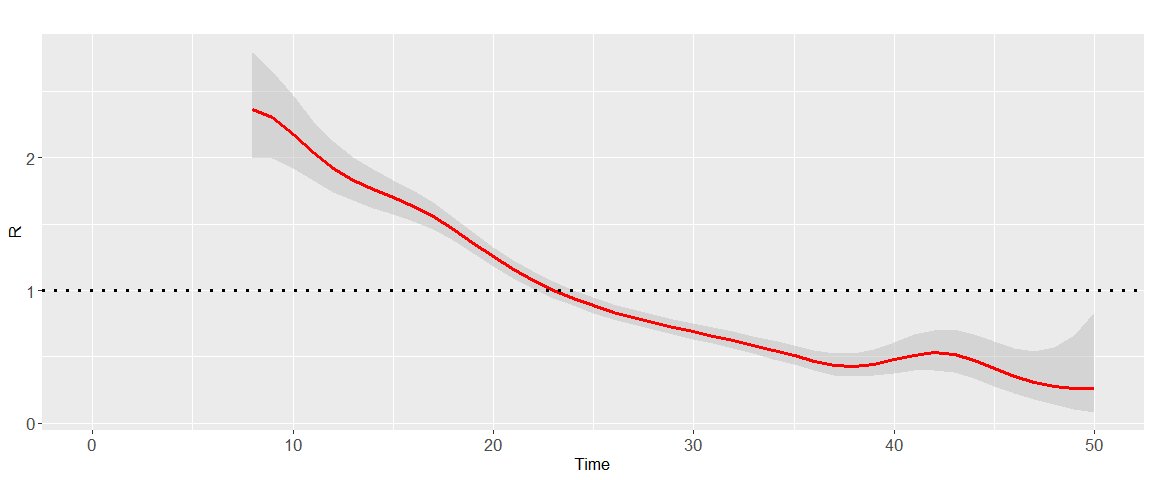
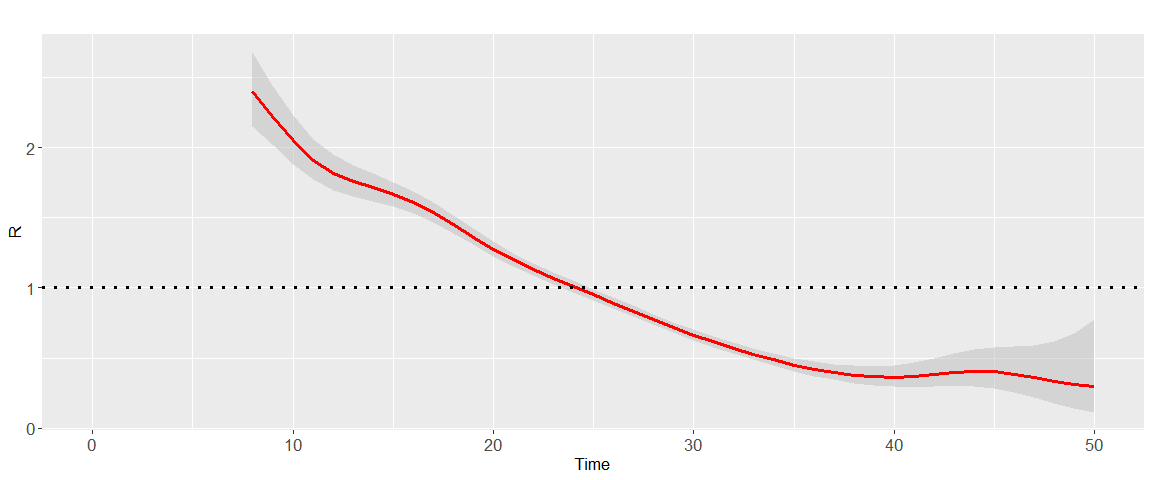
Version 1.0.6

diff --git a/README.md b/README.md
@@ -5,7 +5,7 @@ Oswaldo Gressani
 
 <!-- Introduce badges -->
 
-![Version](https://img.shields.io/badge/Version-1.0.5-lightgrey)
+![Version](https://img.shields.io/badge/Version-1.0.6-lightgrey)
 ![Languages](https://img.shields.io/badge/Languages-R%2C%20C%2B%2B-informational)
 ![Lifecycle](https://img.shields.io/badge/lifecycle-postexperimental-yellow)
 ![CodeSize](https://img.shields.io/github/languages/code-size/oswaldogressani/EpiLPS?color=orange&label=Code%20size&style=plastic)
@@ -19,59 +19,62 @@ Oswaldo Gressani
 EpiLPS <span style="color: blue;"> (Gressani et al. 2021)</span>, is the
 acronym for **Epi**demiological modeling (tool) with
 **L**aplacian-**P**-**S**plines. It proposes a new Bayesian methodology
-for estimating the instantaneous reproduction number *R*<sub>*t*</sub>,
+for estimating the instantaneous reproduction number
+![R_t](https://latex.codecogs.com/png.image?%5Cdpi%7B110%7D&space;%5Cbg_white&space;R_t "R_t"),
 i.e. the average number of secondary cases generated by an infectious
-agent at time *t* <span style="color: blue;"> (White et al., 2020)
-</span>; a key metric for assessing the transmission dynamics of an
-infectious disease and a useful reference for guiding interventions of
-governmental institutions in a public health crisis. The EpiLPS project
-builds upon two strong pillars in the statistical literature, namely
-Bayesian P-splines and Laplace approximations, to deliver a fast and
-flexible methodology for inference on *R*<sub>*t*</sub>. EpiLPS requires
-two (external) inputs: (1) a time series of incidence counts and (2) a
-serial or generation interval distribution.
+agent at time
+![t](https://latex.codecogs.com/png.image?%5Cdpi%7B110%7D&space;%5Cbg_white&space;t "t")
+<span style="color: blue;"> (White et al., 2020) </span>; a key metric
+for assessing the transmission dynamics of an infectious disease and a
+useful reference for guiding interventions of governmental institutions
+in a public health crisis. The EpiLPS project builds upon two strong
+pillars in the statistical literature, namely Bayesian P-splines and
+Laplace approximations, to deliver a fast and flexible methodology for
+inference on
+![R_t](https://latex.codecogs.com/png.image?%5Cdpi%7B110%7D&space;%5Cbg_white&space;R_t "R_t").
+EpiLPS requires two (external) inputs: (1) a time series of incidence
+counts and (2) a serial or generation interval distribution.
 
 The underlying model for smoothing incidence counts is based on the
 Negative Binomial distribution to account for possible overdispersion in
 the data. EpiLPS has a *two-phase engine* for estimating
-*R*<sub>*t*</sub>. First, Bayesian P-splines are used to smooth the
-epidemic curve and to compute estimates of the mean incidence count of
-the susceptible population at each day *t* of the outbreak. Second, in
-the philosophy of <span style="color: blue;"> Fraser (2007)</span>, the
-renewal equation is used as a bridge to link the estimated mean
-incidence and the reproduction number. As such, the second phase
-delivers a closed-form expression of *R*<sub>*t*</sub> as a function of
-the B-spline coefficients and the serial interval distribution.
+![R_t](https://latex.codecogs.com/png.image?%5Cdpi%7B110%7D&space;%5Cbg_white&space;R_t "R_t").
+First, Bayesian P-splines are used to smooth the epidemic curve and to
+compute estimates of the mean incidence count of the susceptible
+population at each day
+![t](https://latex.codecogs.com/png.image?%5Cdpi%7B110%7D&space;%5Cbg_white&space;t "t")
+of the outbreak. Second, in the philosophy of <span
+style="color: blue;"> Fraser (2007)</span>, the renewal equation is used
+as a bridge to link the estimated mean incidence and the reproduction
+number. As such, the second phase delivers a closed-form expression of
+![R_t](https://latex.codecogs.com/png.image?%5Cdpi%7B110%7D&space;%5Cbg_white&space;R_t "R_t")
+as a function of the B-spline coefficients and the serial interval
+distribution.
 
 Another key strength of EpiLPS is that two different strategies can be
-used to estimate *R*<sub>*t*</sub>. The first approach called LPSMAP is
-completely sampling-free and fully relies on Laplace approximations and
-*maximum a posteriori* computation of model hyperparameters for
-estimation. Routines for Laplace approximations and B-splines
-evaluations are typically the ones that are computationally most
-intensive and are therefore coded in C++ and integrated in R via the
-[Rcpp package](https://www.rcpp.org/), making them time irrelevant. The
-second approach is called LPSMALA (Laplacian-P-splines with a
-Metropolis-adjusted Langevin algorithm) and is fully stochastic. It
-samples the posterior of the model by using Langevin diffusions in a
-Metropolis-within-Gibbs framework. Of course, LPSMAP has a computational
-advantage over LPSMALA. Thanks to the lightning fast implementation of
-Laplace approximations, LPSMAP typically delivers estimate of
-*R*<sub>*t*</sub> in a fraction of a second. The chart below, summarizes
-the skeleton and mechanisms behind EpiLPS for estimating
-*R*<sub>*t*</sub>.
+used to estimate
+![R_t](https://latex.codecogs.com/png.image?%5Cdpi%7B110%7D&space;%5Cbg_white&space;R_t "R_t").
+The first approach called LPSMAP is completely sampling-free and fully
+relies on Laplace approximations and *maximum a posteriori* computation
+of model hyperparameters for estimation. Routines for Laplace
+approximations and B-splines evaluations are typically the ones that are
+computationally most intensive and are therefore coded in C++ and
+integrated in R via the [Rcpp package](https://www.rcpp.org/), making
+them time irrelevant. The second approach is called LPSMALA
+(Laplacian-P-splines with a Metropolis-adjusted Langevin algorithm) and
+is fully stochastic. It samples the posterior of the model by using
+Langevin diffusions in a Metropolis-within-Gibbs framework. Of course,
+LPSMAP has a computational advantage over LPSMALA. Thanks to the
+lightning fast implementation of Laplace approximations, LPSMAP
+typically delivers estimate of
+![R_t](https://latex.codecogs.com/png.image?%5Cdpi%7B110%7D&space;%5Cbg_white&space;R_t "R_t")
+in a fraction of a second. The chart below, summarizes the skeleton and
+mechanisms behind EpiLPS for estimating
+![R_t](https://latex.codecogs.com/png.image?%5Cdpi%7B110%7D&space;%5Cbg_white&space;R_t "R_t").
 
 <br> <!-- Include a white space -->
 
-<div class="figure" style="text-align: center">
-
-<img src="man/figures/EpiLPSchart.jpg" alt="The EpiLPS tool: path from incidence data and serial interval to the estimated reproduction number." width="80%" />
-<p class="caption">
-The EpiLPS tool: path from incidence data and serial interval to the
-estimated reproduction number.
-</p>
-
-</div>
+<img src="man/figures/EpiLPSchart.jpg" title="The EpiLPS tool: path from incidence data and serial interval to the estimated reproduction number." alt="The EpiLPS tool: path from incidence data and serial interval to the estimated reproduction number." width="80%" style="display: block; margin: auto;" />
 
 ## Getting started
 
@@ -129,12 +132,13 @@ The simulated incidence count data can be accessed by typing:
 simepi$y
 ```
 
-    ##  [1]  10   3   6  12  12  22  29  33  62  63  81 110 126 160 196 210 263 308 299
-    ## [20] 313 362 314 321 327 281 267 238 224 187 157 148 114  86  77  64  44  31  17
-    ## [39]  21  16  13   6  13   6   4   3   1   1   0   1
+    ##  [1]  10   4  15  13  29  37  61  67 106 112 144 178 221 272 328 352 458 478 515
+    ## [20] 576 547 612 596 566 563 521 487 415 370 296 261 202 152 131  86  62  44  41
+    ## [39]  23  13  11  11   6   4   6   4   1   1   1   0
 
 The `epilps()` routine can be used to fit the epidemic data. By default,
-the LPSMAP approach is used with 30 B-splines in the interval \[1; 50\]
+the LPSMAP approach is used with 30 B-splines in the interval
+![\[1;50\]](https://latex.codecogs.com/png.image?%5Cdpi%7B110%7D&space;%5Cbg_white&space;%5B1%3B50%5D "[1;50]")
 and a second order penalty. The `plot()` routine on the `epifit_LPSMAP`
 object can be used to plot the estimated reproduction number.
 
@@ -144,9 +148,9 @@ epifit_LPSMAP <- epilps(incidence = simepi$y, serial_interval = si, tictoc = TRU
 
     ## Inference method chosen: LPSMAP. 
     ## CI for LPSMAP computed via lognormal posterior approx. of Rt.Total number of days: 50. 
-    ## Mean Rt discarding first 7 days: 0.961.
-    ## Mean 95% CI of Rt discarding first 7 days: (0.847,1.112) 
-    ## Elapsed real time (wall clock time): 0.19 seconds.
+    ## Mean Rt discarding first 7 days: 0.935.
+    ## Mean 95% CI of Rt discarding first 7 days: (0.851,1.047) 
+    ## Elapsed real time (wall clock time): 0.25 seconds.
 
 ``` r
 plot(epifit_LPSMAP)
@@ -158,10 +162,13 @@ plot(epifit_LPSMAP)
 
 Several options can be specified in the `plot()` routine. For instance,
 graphical parameters such as `themetype` and `rtcol` can be used to
-control the theme and color of the fitted *R*<sub>*t*</sub> curve. In
-addition, the option `overlayEpiestim` can be set to `TRUE` to overlay
-the estimated *R*<sub>*t*</sub> curve with the EpiEstim package of <span
-style="color: blue;"> Cori et al., (2013) </span>.
+control the theme and color of the fitted
+![R_t](https://latex.codecogs.com/png.image?%5Cdpi%7B110%7D&space;%5Cbg_white&space;R_t "R_t")
+curve. In addition, the option `overlayEpiestim` can be set to `TRUE` to
+overlay the estimated
+![R_t](https://latex.codecogs.com/png.image?%5Cdpi%7B110%7D&space;%5Cbg_white&space;R_t "R_t")
+curve with the EpiEstim package of <span style="color: blue;"> Cori et
+al., (2013) </span>.
 
 ``` r
 plot(epifit_LPSMAP, themetype = "light", rtcol = "steelblue", overlayEpiestim = TRUE)
@@ -171,23 +178,27 @@ plot(epifit_LPSMAP, themetype = "light", rtcol = "steelblue", overlayEpiestim = 
 
 <br>
 
-The numerical values of the estimated *R*(*t*) at days *t* = 8, …, 14
-obtained with LPSMAP and the associated 95% credible interval can be
-obtained by typing:
+The numerical values of the estimated
+![R(t)](https://latex.codecogs.com/png.image?%5Cdpi%7B110%7D&space;%5Cbg_white&space;R%28t%29 "R(t)")
+at days
+![t=8,\\dots,14](https://latex.codecogs.com/png.image?%5Cdpi%7B110%7D&space;%5Cbg_white&space;t%3D8%2C%5Cdots%2C14 "t=8,\dots,14")
+obtained with LPSMAP and the associated
+![95\\%](https://latex.codecogs.com/png.image?%5Cdpi%7B110%7D&space;%5Cbg_white&space;95%5C%25 "95\%")
+credible interval can be obtained by typing:
 
 ``` r
 knitr::kable(epifit_LPSMAP$epifit[8:14,2:4])
 ```
 
-|     | R\_estim | R95CI\_low | R95CI\_up |
-|:----|---------:|-----------:|----------:|
-| 8   | 2.364059 |   2.001912 |  2.791718 |
-| 9   | 2.299278 |   1.995809 |  2.648890 |
-| 10  | 2.175783 |   1.916284 |  2.470422 |
-| 11  | 2.039616 |   1.827749 |  2.276041 |
-| 12  | 1.921321 |   1.737508 |  2.124579 |
-| 13  | 1.831518 |   1.675566 |  2.001985 |
-| 14  | 1.760867 |   1.621291 |  1.912459 |
+|     |  R_estim | R95CI_low | R95CI_up |
+|:----|---------:|----------:|---------:|
+| 8   | 2.400739 |  2.151855 | 2.678409 |
+| 9   | 2.223205 |  2.023275 | 2.442890 |
+| 10  | 2.049500 |  1.882000 | 2.231908 |
+| 11  | 1.912324 |  1.774338 | 2.061040 |
+| 12  | 1.818282 |  1.696983 | 1.948251 |
+| 13  | 1.759342 |  1.654123 | 1.871254 |
+| 14  | 1.714138 |  1.618886 | 1.814994 |
 
 A smooth estimate of the epidemic curve can be obtained with the code
 below. The option `epicol` controls the color of the curve and
@@ -259,12 +270,14 @@ nrow = 2, ncol = 2)
 
 To check the (statistical) performance of EpiLPS, the `perfcheck()`
 routine can be used to simulate epidemic outbreaks under four different
-scenarios. Each scenario has a different *R*<sub>*t*</sub> curve to be
-compared with the estimated trajectories fitted by EpiLPS. For
-comparative reasons, the trajectories of EpiEstim (with a weekly sliding
-window) are also shown. The code below simulates 25 epidemic outbreaks
-with a data generating process following scenario 3 and a given serial
-interval distribution. A seed can also be specified for reproducibility.
+scenarios. Each scenario has a different
+![R_t](https://latex.codecogs.com/png.image?%5Cdpi%7B110%7D&space;%5Cbg_white&space;R_t "R_t")
+curve to be compared with the estimated trajectories fitted by EpiLPS.
+For comparative reasons, the trajectories of EpiEstim (with a weekly
+sliding window) are also shown. The code below simulates 25 epidemic
+outbreaks with a data generating process following scenario 3 and a
+given serial interval distribution. A seed can also be specified for
+reproducibility.
 
 ``` r
 simexample <- perfcheck(S = 20, method = "LPSMALA",
@@ -297,8 +310,7 @@ simexample <- perfcheck(S = 20, method = "LPSMALA",
 
 ## Package version
 
-This is version 1.0.5 (2022-05-05) - “Schrödinger’s cat jumps out of the
-box”.
+This is version 1.0.6 (2022-07-28) - “Welcome to the Metaverse”.
 
 ## Acknowledgments
 

diff --git a/NEWS.md b/NEWS.md
@@ -21,3 +21,9 @@
 * Version name: "Schrödinger's cat jumps out of the box"
 * Added correction factor on LPSMAP covariance matrix.
 * episim() can now simulate from negative binomial distribution.
+
+### Version 1.0.6 ### (**2022-07-28**)
+
+* Version name: "Welcome to the Metaverse"
+* Added midwindow option to the perfcheck routine. It reports EpiEstim Rt 
+  estimates at the middle of the sliding window.
